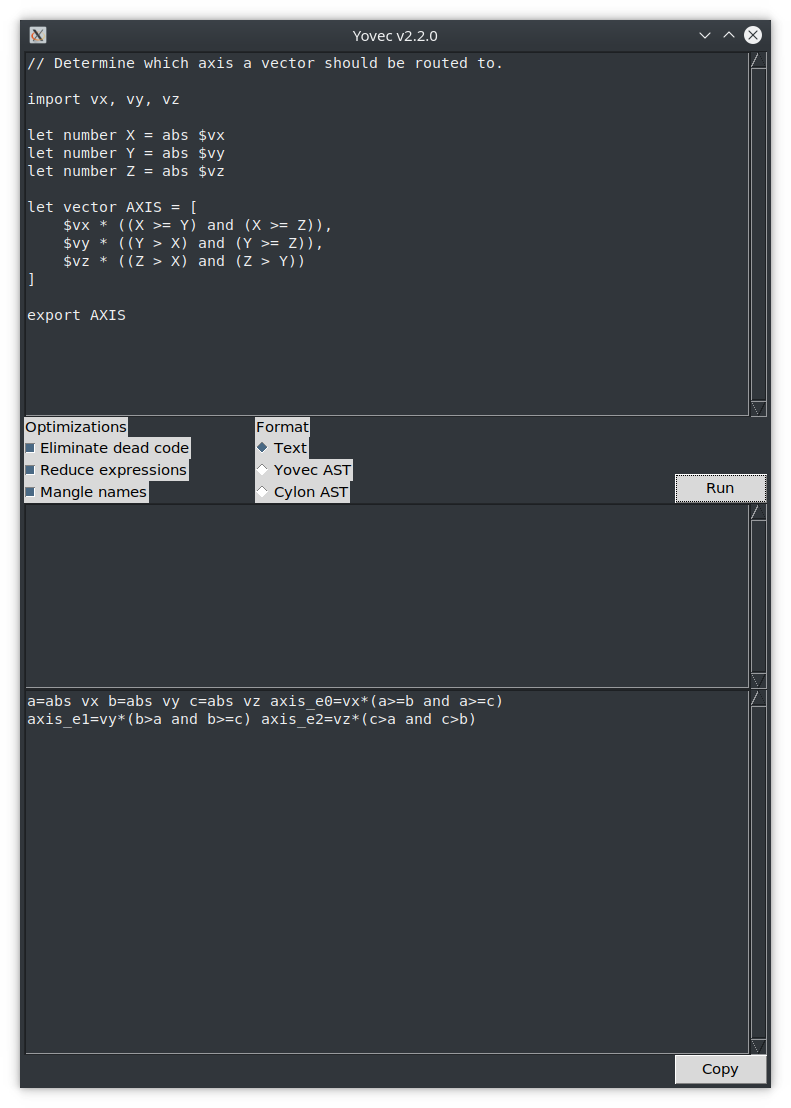
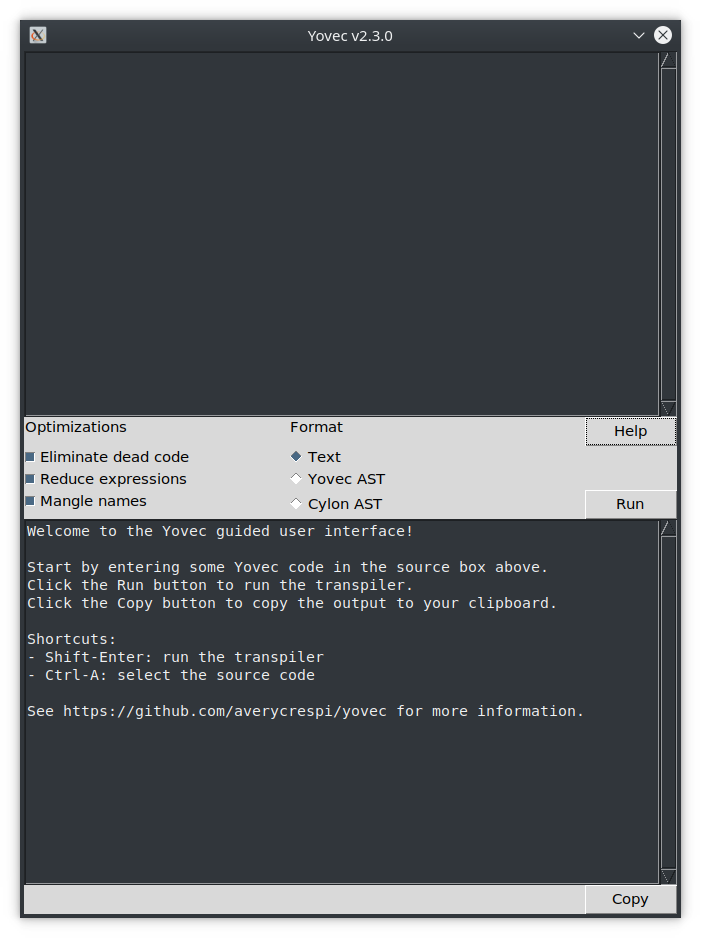
Update version to 2.3.0

diff --git a/engine/version.py b/engine/version.py
@@ -1,1 +1,1 @@
-VERSION = '2.2.0'
+VERSION = '2.3.0'
